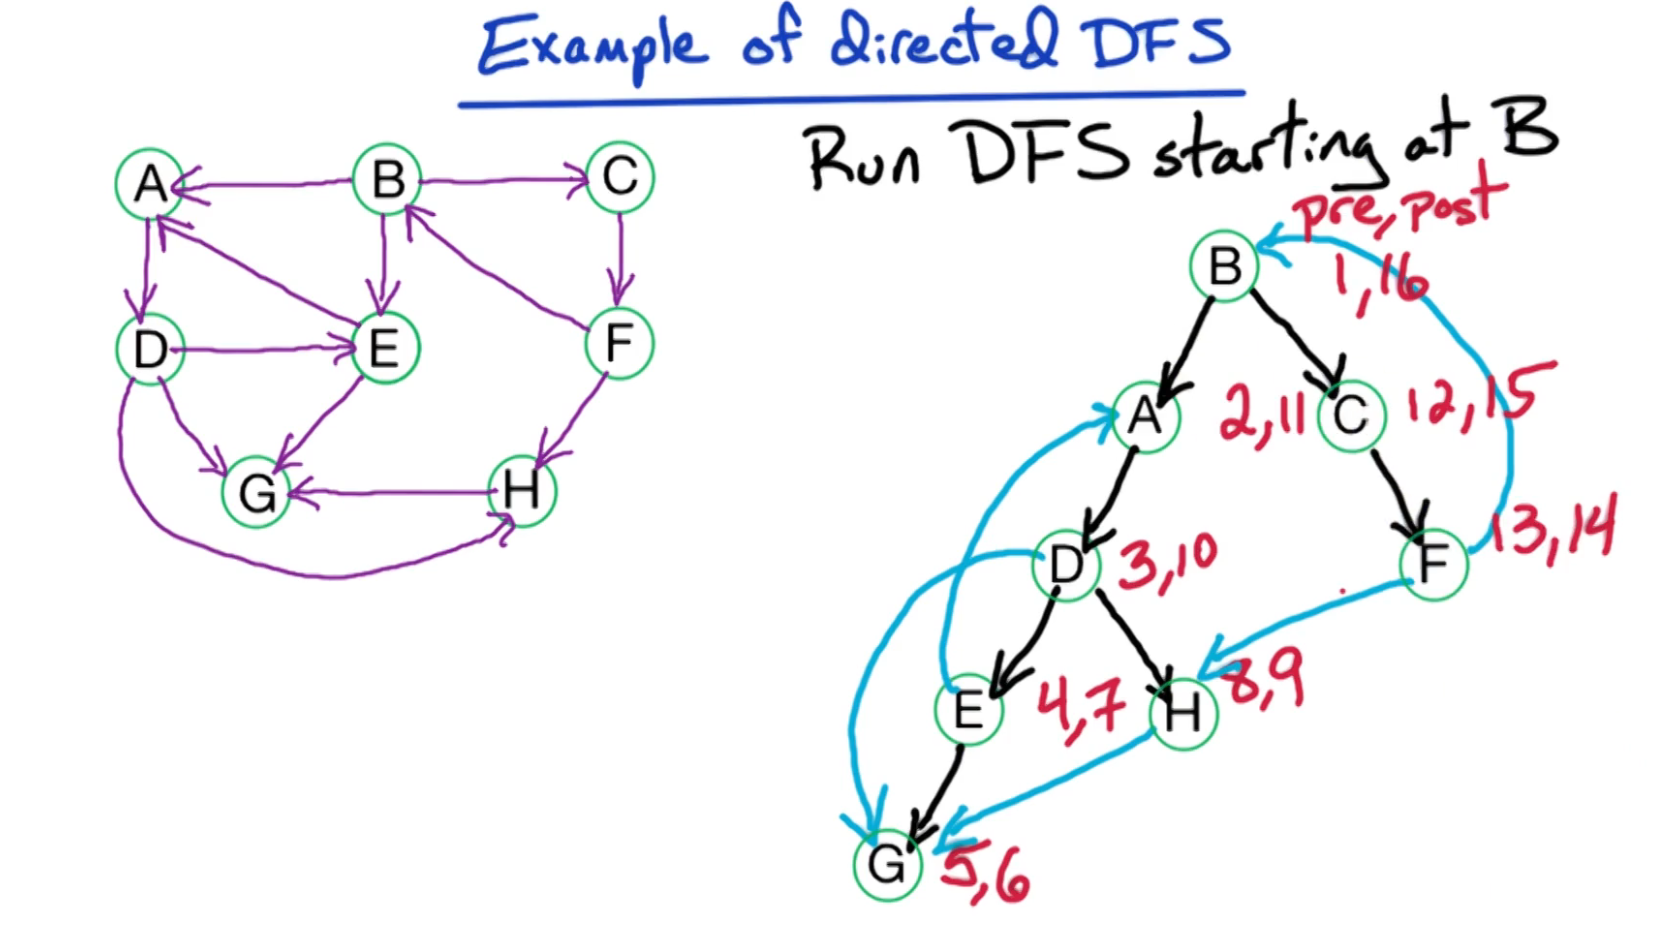
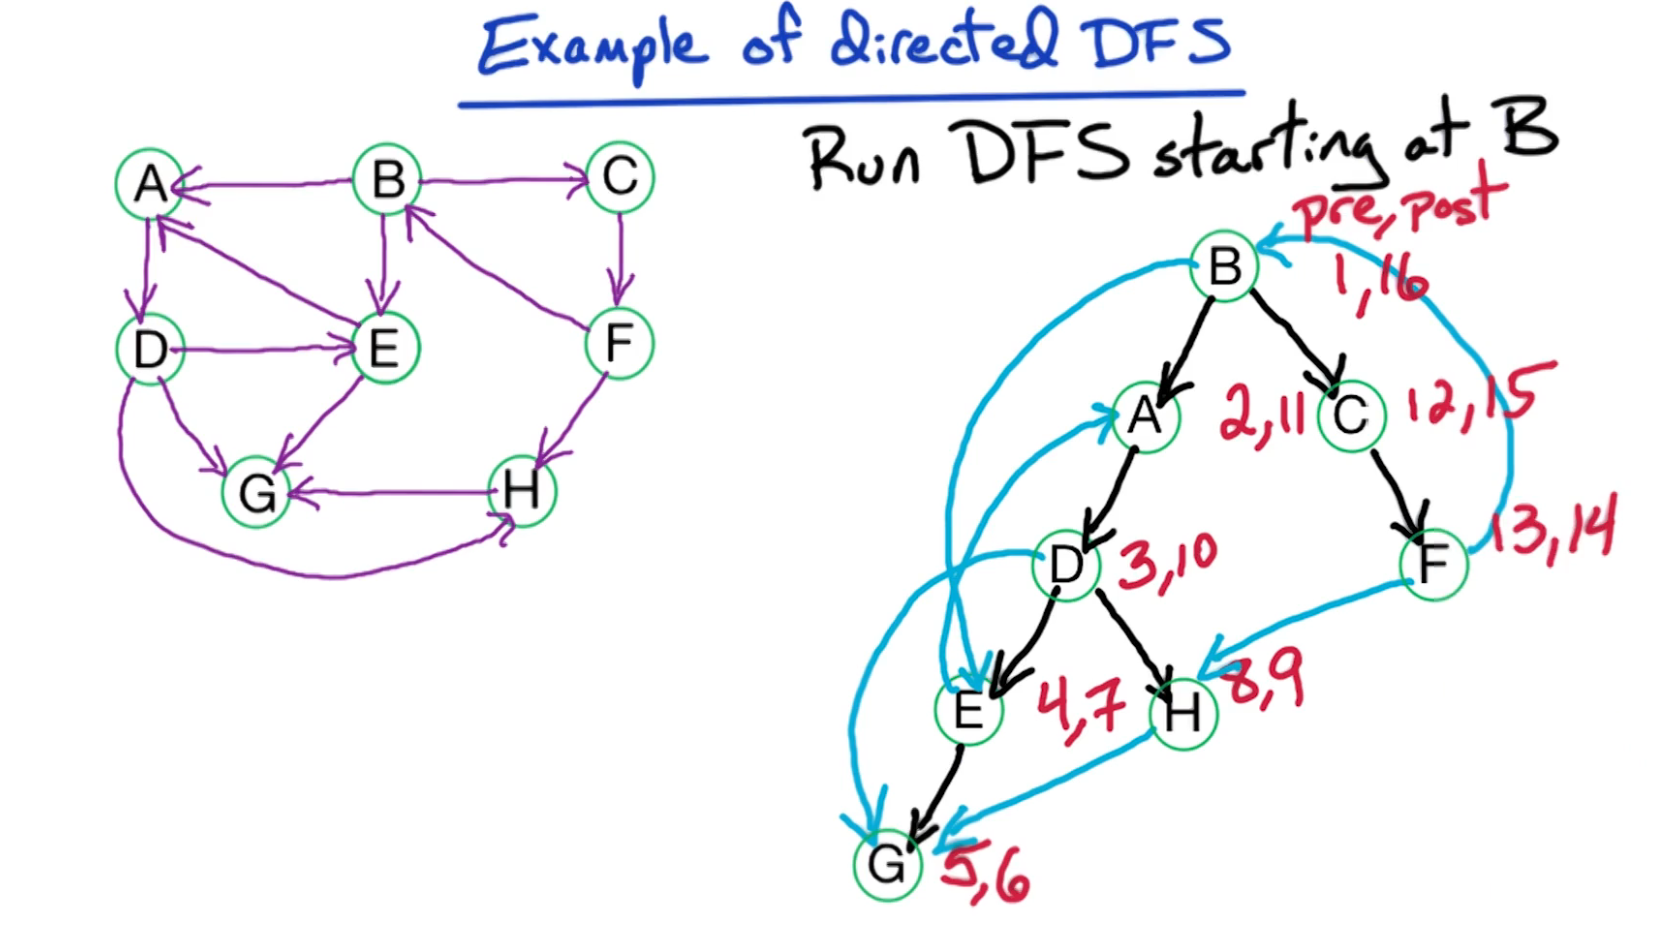
WIP CS 6515 12-GR1

Changed region(s): [[0.5605, 0.431, 0.5916, 0.7389], [0.5916, 0.3079, 0.6539, 0.431], [0.6539, 0.2771, 0.7162, 0.3079]]

diff --git a/cs-6515/04-graph-algorithms.md b/cs-6515/04-graph-algorithms.md
@@ -366,6 +366,35 @@ with corresponding final state of the resulting search tree as follows:
 
 ### 8. Introduction
 
+![](./assets/12-GR1-007.png){ width=650px }
+
+Consider a specific **edge** from the directed graph in the previous example (cf. Section 7), e.g., $z \to w$ . Furthermore, let us consider whether this is an explored edge in the resulting depth-first search (DFS) tree (where in the figure shown above, black edges denote such explored edges, whereas teal edges denoted other "re-explored neighbors" edges during the course of running the algorithm, as discussed previously in Section 7).
+
+The **tree edges** are those which are included in the corresponding depth-first search (DFS) tree upon completion of the algorithm. Examples of such edges in this graph include $B \to A$ and $A \to D$ .
+  * ***N.B.*** In this particular example, the resulting tree edges formed a connected **tree**, whereby each vertex is reachable from the start vertex (i.e., vertex $B$ ). More generally, a non-connected **forest** can also result from running this algorithm, whereby multiple groups of such connected trees result from the algorithm. However, for simplicity, here, we will simply use the semantics of a "tree edge," as opposed to a more general "forest edge."
+
+Consider the properties of the post-order numbering in these tree edges. In general, the following property holds:
+
+$$
+{\text{post}}(z) > {\text{post}}(w)
+$$
+
+i.e., the post-order numbering of the "head" edge is generally "later" than that of the "tail" edge, when exploring in this depth-first search manner.
+
+Now, let us consider the other "non-tree" edges (as denoted by teal in the figure shown above). Among these, there are three distinct ***types***, characterized as follows:
+
+| Edge Type | Description | Relationship of post-order numbering | Examples |
+|:--:|:--:|:--:|:--:|
+| **Back** | From descendent vertex $w$ to ancestor vertex $z$ | ${\text{post}}(z) < {\text{post}}(w)$ | $E \to A$ , $F \to B$ |
+| **Forward** | From ancestor vertex $z$ to descendent vertex $w$ | ${\text{post}}(z) > {\text{post}}(w)$ | $D \to G$ , $B \to E$ |
+| **Cross** | No ancestor/descendent relationship among vertices $z$ and $w$ | ${\text{post}}(z) > {\text{post}}(w)$ | $F \to H$ , $H \to G$ |
+
+In particular, observe that back edges have a ***smaller*** post-numbering of the descendent vertex $w$ relative to its ancestor vertex $z$ (i.e., the "head" vertex is "ahead of" the "tail" vertex). This constitutes a ***key property*** for post-order numbering accordingly (i.e., back edges behave differently from the other types of edges).
+
+Otherwise, forward and cross edges have the same/analogous property as the tree edges themselves.
+  * In the case of forward edges, they are similarly "moving down" the tree as tree edges, but simply doing so by more than one vertex (i.e., past the neighboring vertex).
+  * In the case of cross edges, generally the edge of the relatively first-explored vertex $w$ will receive the lower/"earlier" post-order numbering (otherwise, there would have been an ancestor/descendent "sub-tree" relationship between the vertices).
+
 ### 9. Cycles
 
 ## 10-12. Topological Sorting
